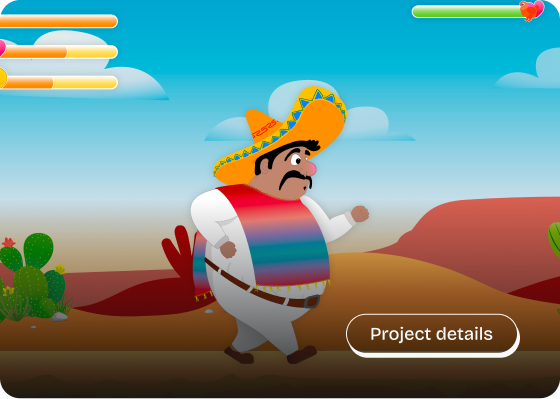
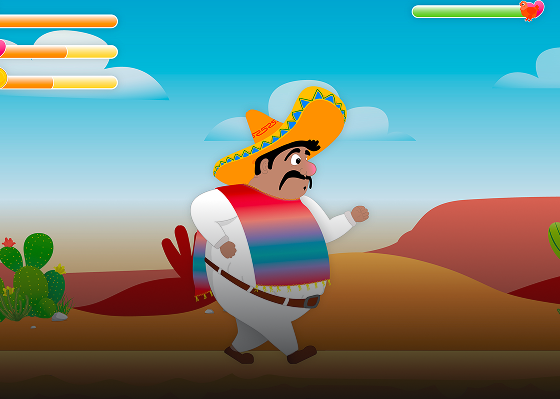
Refactor code structure for improved readability and maintainability

diff --git a/css/sections/projects.css b/css/sections/projects.css
@@ -16,7 +16,7 @@
   display: flex;
   flex-direction: row;
   align-items: flex-start;
-  gap: 4rem;
+  gap: 5rem;
   margin-bottom: 4rem;
 }
 
@@ -116,7 +116,8 @@
   display: flex;
   flex-direction: column;
   align-items: flex-start;
-  gap: 3rem;
+  gap: 1rem;
+  margin-top: 3rem;
   cursor: pointer;
 }
 
@@ -279,7 +280,7 @@
 .projects__grid {
   display: grid;
   grid-template-columns: 1fr 1fr;
-  gap: 2rem;
+  gap: 5rem;
   margin-bottom: 6rem;
 }
 
@@ -290,17 +291,99 @@
 }
 
 .project-card__image-wrapper {
+  position: relative;
   width: 100%;
   overflow: hidden;
-  border-radius: 0.75rem;
+  border-radius: 1.3rem;
 }
 
 .project-card__image {
   display: block;
   width: 100%;
-  height: 260px;
+  height: 398px;
   object-fit: cover;
   user-select: none;
+}
+
+.project-card__image--default {
+  position: relative;
+  z-index: 1;
+  opacity: 1;
+  transition: opacity 0.3s ease-out;
+}
+
+.project-card__image--hover {
+  position: absolute;
+  inset: 0;
+  height: 100%;
+  z-index: 2;
+  opacity: 0;
+  transition: opacity 0.3s ease-out;
+}
+
+.project-card__image-wrapper::after {
+  content: "";
+  position: absolute;
+  inset: 0;
+  border-radius: 1.3rem;
+  background: linear-gradient(to bottom, transparent 40%, rgba(0, 0, 0, 0.65) 100%);
+  opacity: 0;
+  transition: opacity 0.4s ease-out;
+  pointer-events: none;
+  z-index: 3;
+}
+
+.project-card__cta {
+  position: absolute;
+  right: 1.5rem;
+  bottom: 1.5rem;
+  z-index: 10;
+  display: inline-flex;
+  align-items: center;
+  justify-content: center;
+  height: 44px;
+  padding: 0 1.5rem;
+  border-radius: 6.25rem;
+  box-shadow:
+    inset 0 0 0 1px var(--color-off-white),
+    3px 3.5px 0 0 var(--color-off-white);
+  font-family: var(--font-base);
+  font-size: 1.125rem;
+  font-weight: 500;
+  color: var(--color-text-light);
+  white-space: nowrap;
+  opacity: 0;
+  transition:
+    opacity 0.4s ease-out,
+    transform 90ms ease-in,
+    background-color 80ms ease-in,
+    box-shadow 90ms ease-in;
+  pointer-events: none;
+  user-select: none;
+  cursor: pointer;
+}
+
+.project-card__image-wrapper:hover .project-card__image--default {
+  opacity: 0;
+}
+
+.project-card__image-wrapper:hover .project-card__image--hover {
+  opacity: 1;
+}
+
+.project-card__image-wrapper:hover::after {
+  opacity: 1;
+}
+
+.project-card__image-wrapper:hover .project-card__cta {
+  opacity: 1;
+  pointer-events: auto;
+}
+
+.project-card__cta:hover {
+  background-color: var(--color-cta-hover);
+  box-shadow: inset 0 0 0 1px var(--color-off-white);
+  transform: translate(0.25rem, 0.25rem);
 }
 
 .project-card__title {

diff --git a/index.html b/index.html
@@ -414,7 +414,9 @@
                   aria-hidden="true"
                   draggable="false"
                 />
-                <span class="projects__featured-cta" aria-hidden="true" data-i18n="projectDetailsCta">Project details</span>
+                <span class="projects__featured-cta" aria-hidden="true" data-i18n="projectDetailsCta"
+                  >Project details</span
+                >
               </div>
               <div class="projects__featured-info">
                 <h3 class="projects__featured-name">Join</h3>
@@ -433,11 +435,19 @@
           <article class="project-card">
             <div class="project-card__image-wrapper">
               <img
-                src="assets/img/04_Hero/Component 23.png"
+                src="assets/img/07_Projects/Property 1=El Pollo Loco.png"
                 alt="El Pollo Loco – Jump &amp; Run Game"
-                class="project-card__image"
+                class="project-card__image project-card__image--default"
                 draggable="false"
               />
+              <img
+                src="assets/img/07_Projects/Property 1=El Pollo Loco Hover.png"
+                alt=""
+                class="project-card__image project-card__image--hover"
+                aria-hidden="true"
+                draggable="false"
+              />
+              <span class="project-card__cta" aria-hidden="true" data-i18n="projectDetailsCta">Project details</span>
             </div>
             <h3 class="project-card__title">El Pollo Loco</h3>
             <p class="project-card__description" data-i18n="projectElPolloLocoDescription">
